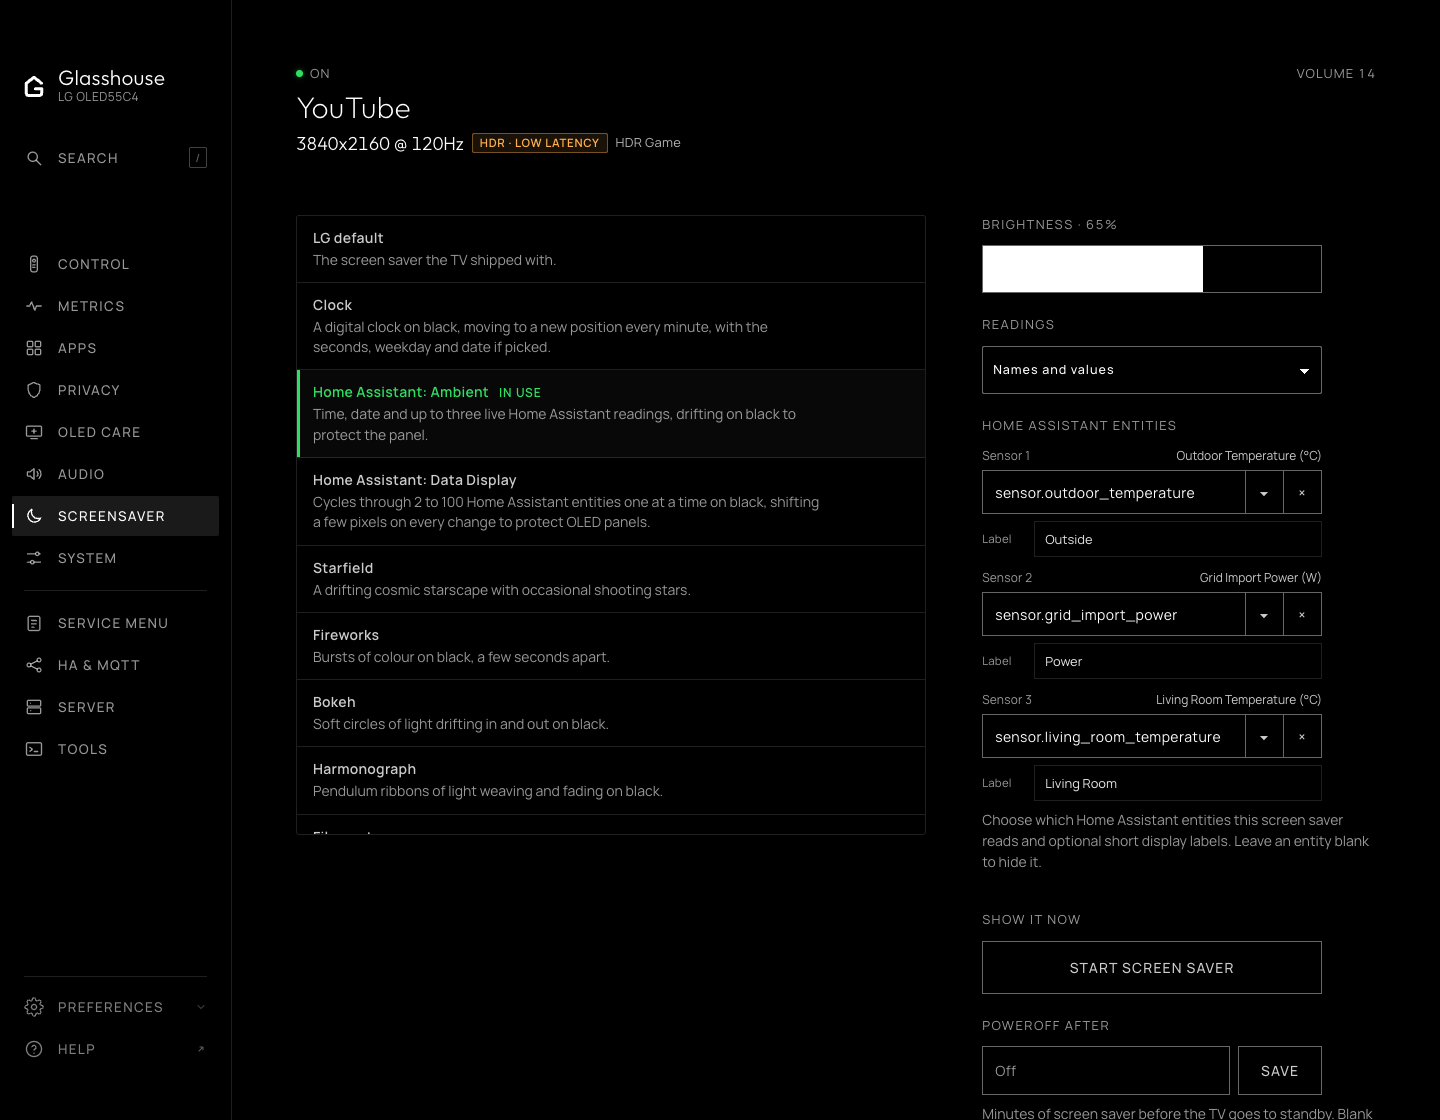
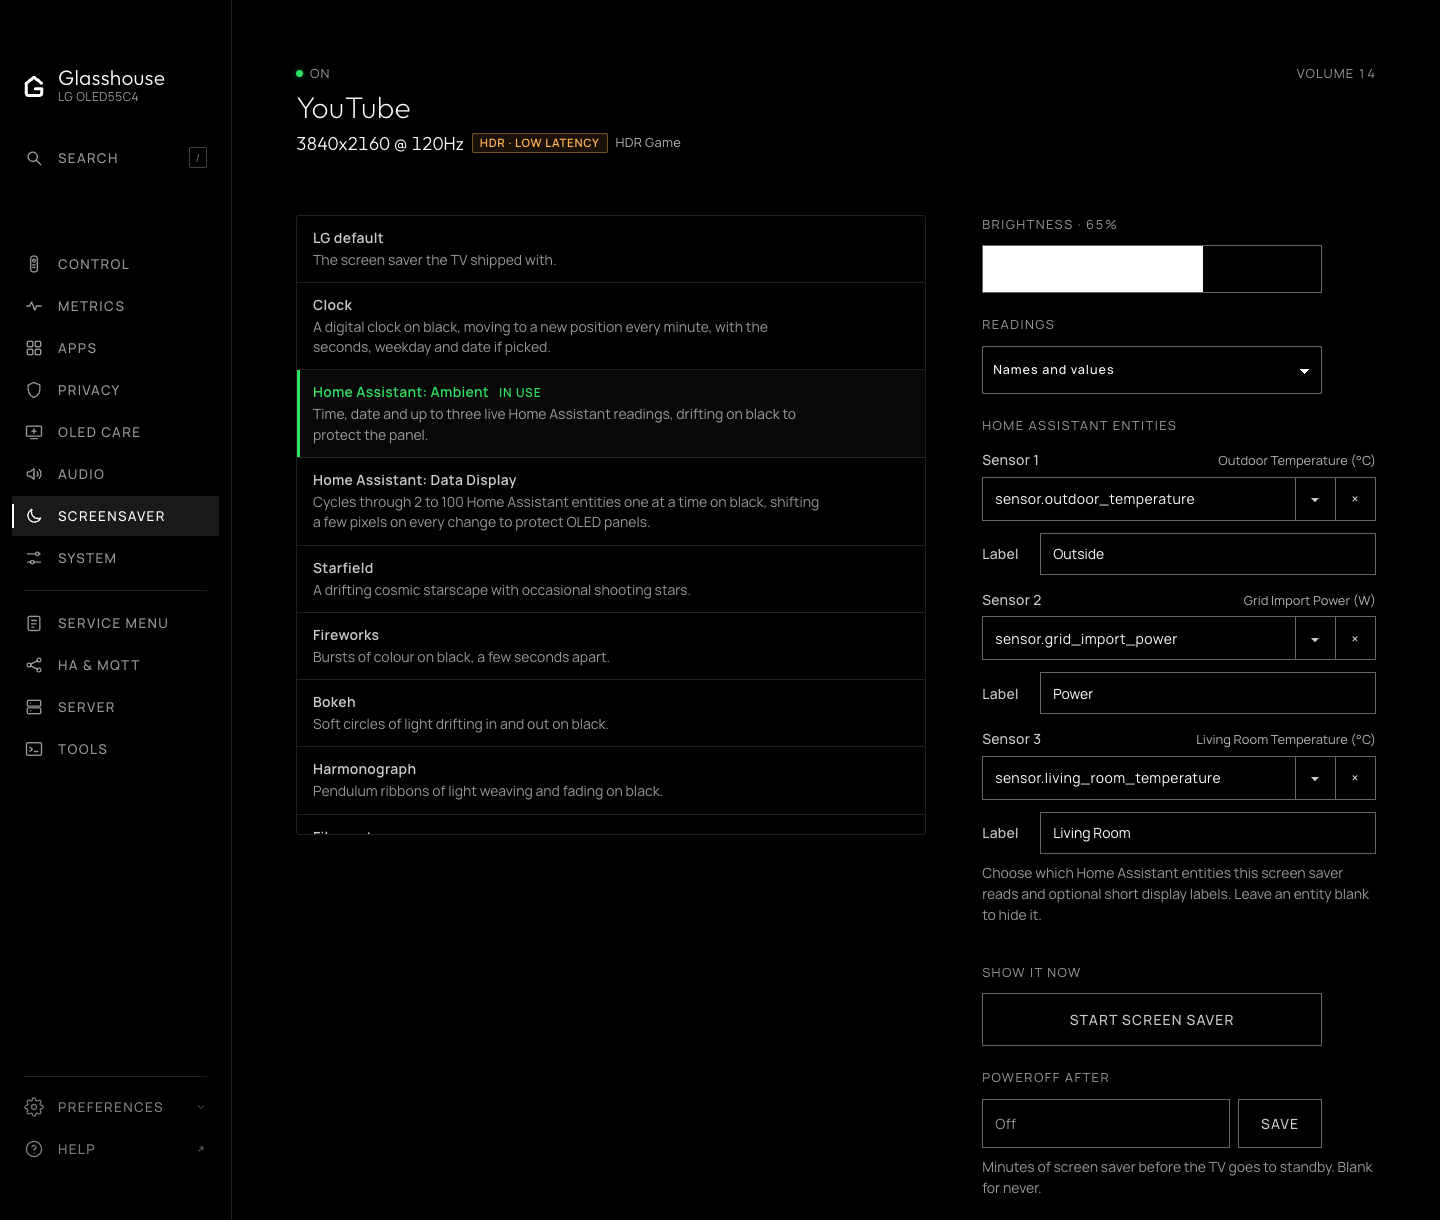
Increase label and entity control text sizes in screensaver UI for accessibility

diff --git a/server/assets/ui/ui.css b/server/assets/ui/ui.css
@@ -769,10 +769,10 @@ button.key-hit{background:var(--w10)}
 .ss-pick-opt{padding:8px 14px 8px 24px;font-size:14px;color:var(--w90);cursor:pointer}
 .ss-pick-opt:hover,.ss-pick-opt.act{background:rgba(var(--fg),.07);color:var(--w100)}
 .ss-pick-opt[aria-selected="true"]{color:var(--green);box-shadow:inset 3px 0 0 var(--green)}
-.ss-entity-field{margin-top:12px;max-width:340px;display:flex;flex-direction:column;gap:5px}
+.ss-entity-field{margin-top:14px;max-width:440px;display:flex;flex-direction:column;gap:6px}
 .ss-entity-head{display:flex;justify-content:space-between;align-items:baseline;gap:8px}
-.ss-entity-field label{font-size:12px;color:var(--w60);letter-spacing:.02em}
-.ss-entity-hint{font-size:12px;color:var(--w80);text-align:right;overflow:hidden;text-overflow:ellipsis;white-space:nowrap;max-width:220px}
+.ss-entity-field label{font-size:14px;color:var(--w80);font-weight:500;letter-spacing:.02em}
+.ss-entity-hint{font-size:13px;color:var(--w70);text-align:right;overflow:hidden;text-overflow:ellipsis;white-space:nowrap;max-width:240px}
 .ss-ent-wrap{position:relative;display:flex;align-items:stretch}
 .ss-ent-wrap input{
   flex:1;min-width:0;box-sizing:border-box;font-family:'Manrope';font-weight:400;font-size:14px;letter-spacing:.03em;
@@ -781,22 +781,22 @@ button.key-hit{background:var(--w10)}
 .ss-ent-wrap input:focus{border-color:var(--w100)}
 .ss-ent-wrap input:disabled{opacity:.45}
 .ss-ent-wrap input::placeholder{color:var(--w60)}
-.ss-ent-btn{min-width:38px;padding:0;min-height:44px;border-left:0;font-size:14px;display:flex;align-items:center;justify-content:center}
+.ss-ent-btn{min-width:40px;padding:0;min-height:44px;border-left:0;font-size:14px;display:flex;align-items:center;justify-content:center}
 .ss-ha-list{max-height:260px;padding:4px 0}
-.ss-ha-opt{padding:8px 12px;cursor:pointer}
+.ss-ha-opt{padding:9px 12px;cursor:pointer}
 .ss-ha-opt:hover{background:rgba(var(--fg),.07)}
-.ss-ha-opt-n{font-size:13px;color:var(--w100);line-height:1.3}
-.ss-ha-opt-id{font-size:11.5px;color:var(--w60);font-family:ui-monospace,SFMono-Regular,Menlo,monospace;margin-top:1px}
-.ss-ha-empty{padding:10px 12px;font-size:13px;color:var(--w60)}
-.ss-ent-label-row{display:flex;align-items:center;gap:8px;margin-top:2px}
-.ss-ent-label-row label{font-size:11.5px;color:var(--w60);min-width:44px;flex-shrink:0}
-.ss-ent-label-row input{
-  flex:1;min-width:0;box-sizing:border-box;font-family:'Manrope';font-size:13px;
-  color:var(--w90);background:transparent;border:1px solid var(--w12);padding:7px 10px;min-height:36px;border-radius:0;outline:none
+.ss-ha-opt-n{font-size:14px;color:var(--w100);line-height:1.35}
+.ss-ha-opt-id{font-size:13px;color:var(--w70);font-family:ui-monospace,SFMono-Regular,Menlo,monospace;margin-top:2px}
+.ss-ha-empty{padding:10px 12px;font-size:14px;color:var(--w70)}
+.ss-ent-label-row,.ss-li-label{display:flex;align-items:center;gap:10px;margin-top:6px}
+.ss-ent-label-row label,.ss-li-label label{font-size:14px;color:var(--w80);min-width:48px;flex-shrink:0}
+.ss-ent-label-row input,.ss-li-label input{
+  flex:1;min-width:0;box-sizing:border-box;font-family:'Manrope';font-size:14px;
+  color:var(--w100);background:transparent;border:1px solid var(--edge);padding:9px 12px;min-height:42px;border-radius:0;outline:none
 }
-.ss-ent-label-row input:focus{border-color:var(--w80)}
-.ss-ent-label-row input::placeholder{color:var(--w50)}
-.ss-ent-label-row input:disabled{opacity:.45}
+.ss-ent-label-row input:focus,.ss-li-label input:focus{border-color:var(--w100)}
+.ss-ent-label-row input::placeholder,.ss-li-label input::placeholder{color:var(--w60)}
+.ss-ent-label-row input:disabled,.ss-li-label input:disabled{opacity:.45}
 .upd{max-width:760px;margin-top:22px}
 /* The update actions sit under the version, as small as the row's other
    controls. Rolling back is rarely wanted, so it is a link, not a button. */
@@ -804,26 +804,23 @@ button.key-hit{background:var(--w10)}
 /* What each release since the installed one brings, from its notes' summary. */
 .upd-new{margin-top:12px;max-width:62ch}
 .ss-li-head{display:flex;align-items:baseline;justify-content:space-between;gap:8px;max-width:440px;margin:2px 0 6px}
-.ss-li-head label{font-size:13px;color:var(--w90);font-weight:500}
-.ss-li-count{font-size:12px;color:var(--w60)}
+.ss-li-head label{font-size:14px;color:var(--w90);font-weight:500}
+.ss-li-count{font-size:13px;color:var(--w70)}
 .ss-li-add{display:flex;gap:8px;align-items:stretch;max-width:440px}
 .ss-li-add .ss-ent-wrap{flex:1;min-width:0}
-.ss-li-add-btn{min-height:44px;padding:0 14px;font-size:12px;letter-spacing:.08em;flex:none}
-.ss-li-scroll{margin-top:10px;max-width:440px;max-height:360px;overflow-y:auto;overscroll-behavior:contain;
+.ss-li-add-btn{min-height:44px;padding:0 16px;font-size:13px;letter-spacing:.08em;flex:none}
+.ss-li-scroll{margin-top:12px;max-width:440px;max-height:420px;overflow-y:auto;overscroll-behavior:contain;
   border:1px solid var(--w12);border-radius:2px;background:rgba(var(--fg),.015)}
-.ss-li-item{padding:8px 10px;border-bottom:1px solid var(--w12)}
+.ss-li-item{padding:12px;border-bottom:1px solid var(--w12)}
 .ss-li-item:last-child{border-bottom:0}
 .ss-li-top{display:flex;align-items:flex-start;gap:8px}
-.ss-li-num{font-size:11px;color:var(--w50);min-width:20px;padding-top:2px;flex:none}
+.ss-li-num{font-size:13px;color:var(--w70);min-width:20px;padding-top:2px;flex:none}
 .ss-li-info{flex:1;min-width:0}
-.ss-li-name{font-size:13px;color:var(--w90);white-space:nowrap;overflow:hidden;text-overflow:ellipsis}
-.ss-li-id{font-size:11px;color:var(--w60);white-space:nowrap;overflow:hidden;text-overflow:ellipsis;margin-top:1px}
+.ss-li-name{font-size:14px;color:var(--w100);font-weight:500;white-space:nowrap;overflow:hidden;text-overflow:ellipsis}
+.ss-li-id{font-size:13px;color:var(--w70);white-space:nowrap;overflow:hidden;text-overflow:ellipsis;margin-top:2px}
 .ss-li-acts{display:flex;gap:4px;flex:none}
-.ss-li-acts button{width:26px;height:26px;min-height:0;padding:0;font-size:13px;line-height:1;text-transform:none;letter-spacing:0}
-.ss-li-label{margin-top:6px;padding-left:28px}
-.ss-li-label input{width:100%;box-sizing:border-box;min-height:0;height:30px;padding:0 9px;border:1px solid var(--w25);background:transparent;color:var(--w90);border-radius:2px;font:400 12.5px 'Manrope';outline:none}
-.ss-li-label input:focus{border-color:var(--w80)}
-.ss-li-label input::placeholder{color:var(--w50)}
+.ss-li-acts button{width:34px;height:34px;min-height:0;padding:0;font-size:15px;line-height:1;text-transform:none;letter-spacing:0}
+.ss-li-label{margin-top:8px;padding-left:28px}
 .upd-new-h{font-weight:500;font-size:13px;letter-spacing:.11em;text-transform:uppercase;color:var(--w60);margin-bottom:6px}
 .upd-new-r{margin-bottom:10px;font-size:14px;color:var(--w80);line-height:1.5}
 .upd-new-r p{margin:0 0 4px;white-space:pre-line}

diff --git a/server/assets/ui/screensavers.js b/server/assets/ui/screensavers.js
@@ -411,6 +411,7 @@ function renderSsEntityList(saverId, entityList, haConfigured, locked) {
   const upTitle = t('ss.entityList.moveUp', 'Move up');
   const downTitle = t('ss.entityList.moveDown', 'Move down');
   const rmTitle = t('ss.entityList.remove', 'Remove');
+  const labelTitle = t('ss.entityLabel', 'Label');
   const customPh = t('ss.entityList.customLabelPlaceholder', 'Custom display label (optional)');
   const full = items.length >= ssListMax;
 
@@ -455,6 +456,7 @@ function renderSsEntityList(saverId, entityList, haConfigured, locked) {
             </div>
           </div>
           <div class="ss-li-label">
+            <label for="ss-li-lbl-${idx}">${esc(labelTitle)}</label>
             <input type="text" id="ss-li-lbl-${idx}" value="${esc(it.label || '')}" maxlength="64"
               placeholder="${esc(lblPh)}" autocomplete="off" ${locked ? 'disabled' : ''}
               onchange="saveSsListLabel('${esc(saverId)}', ${idx}, this.value)">
